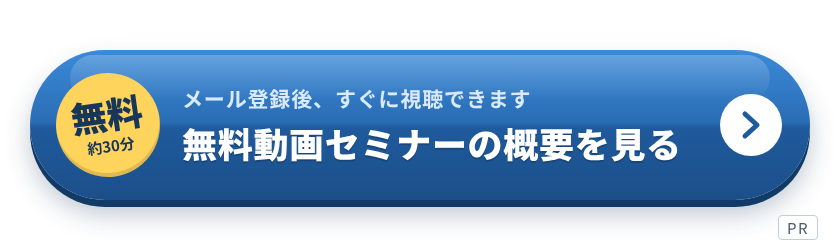
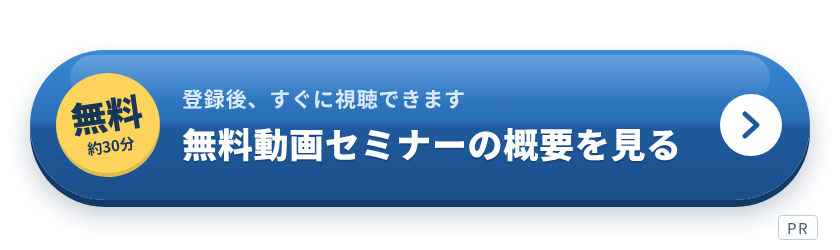
Add viewing-flow steps image (LP -> email -> official LINE -> video) and update articles
Claude-Session: https://claude.ai/code/session_012RfpWF9B5YGzRATWipR9nb

Changed region(s): [[0.2167, 0.336, 0.65, 0.448]]

diff --git a/affiliate-articles/image-src/render.js b/affiliate-articles/image-src/render.js
@@ -53,6 +53,9 @@ const ICON = {
   video: (c = C.blue) => `<svg viewBox="0 0 64 64" width="100%" height="100%"><rect x="8" y="14" width="48" height="34" rx="4" fill="none" stroke="${c}" stroke-width="4"/><path d="M27 23v16l13-8z" fill="${c}"/><path d="M22 54h20" stroke="${c}" stroke-width="4" stroke-linecap="round"/></svg>`,
   seminar: (c = C.blue) => `<svg viewBox="0 0 64 64" width="100%" height="100%"><rect x="16" y="8" width="40" height="26" rx="3" fill="none" stroke="${c}" stroke-width="4"/><circle cx="14" cy="38" r="6" fill="none" stroke="${c}" stroke-width="4"/><path d="M4 58c1-7 5-11 10-11s9 4 10 11" fill="none" stroke="${c}" stroke-width="4" stroke-linecap="round"/><path d="M22 40l10-10" stroke="${c}" stroke-width="4" stroke-linecap="round"/></svg>`,
   clock: (c = C.blue) => `<svg viewBox="0 0 64 64" width="100%" height="100%"><circle cx="32" cy="32" r="22" fill="none" stroke="${c}" stroke-width="4"/><path d="M32 18v14l9 6" fill="none" stroke="${c}" stroke-width="4" stroke-linecap="round"/></svg>`,
+  mail: (c = C.blue) => `<svg viewBox="0 0 64 64" width="100%" height="100%"><rect x="8" y="14" width="48" height="36" rx="4" fill="none" stroke="${c}" stroke-width="4"/><path d="M10 18l22 17 22-17" fill="none" stroke="${c}" stroke-width="4" stroke-linejoin="round"/></svg>`,
+  chat: (c = C.blue) => `<svg viewBox="0 0 64 64" width="100%" height="100%"><path d="M32 10C18 10 8 18.5 8 29c0 6.5 4 12.2 10 15.6V55l10-7.4c1.3.2 2.6.3 4 .3 14 0 24-8.5 24-19S46 10 32 10z" fill="none" stroke="${c}" stroke-width="4" stroke-linejoin="round"/><circle cx="22" cy="29" r="3.5" fill="${c}"/><circle cx="32" cy="29" r="3.5" fill="${c}"/><circle cx="42" cy="29" r="3.5" fill="${c}"/></svg>`,
+  tap: (c = C.blue) => `<svg viewBox="0 0 64 64" width="100%" height="100%"><rect x="6" y="12" width="40" height="18" rx="9" fill="none" stroke="${c}" stroke-width="4"/><path d="M30 26v-0c0-2.5 4-2.5 4 0v12l3-1c2-.6 4 .8 4 2.8l1 0c3 0 6 2 6 5v5c0 5-4 9-9 9h-4c-3 0-5.5-1.5-7-4l-6-9c-1.2-2 1-4.2 3-3l5 3z" fill="#fff" stroke="${c}" stroke-width="3.5" stroke-linejoin="round"/></svg>`,
   check: (c = C.blue) => `<svg viewBox="0 0 64 64" width="100%" height="100%"><circle cx="32" cy="32" r="24" fill="${c}"/><path d="M21 33l8 8 15-17" fill="none" stroke="#fff" stroke-width="6" stroke-linecap="round" stroke-linejoin="round"/></svg>`,
 };
 
@@ -269,7 +272,7 @@ images.push({
       <div style="font-size:15px;font-weight:700;margin-top:4px">約30分</div>
     </div>
     <div style="position:relative;flex:1">
-      <div style="font-size:21px;font-weight:700;color:#D9EAFB;letter-spacing:.04em">メール登録後、すぐに視聴できます</div>
+      <div style="font-size:21px;font-weight:700;color:#D9EAFB;letter-spacing:.04em">登録後、すぐに視聴できます</div>
       <div style="font-size:35px;font-weight:900;letter-spacing:.02em;margin-top:4px;white-space:nowrap;text-shadow:0 2px 0 rgba(0,0,0,.18)">無料動画セミナーの概要を見る</div>
     </div>
     <div style="position:relative;flex:none;width:62px;height:62px;border-radius:50%;background:#fff;display:flex;align-items:center;justify-content:center">
@@ -280,6 +283,32 @@ images.push({
 <div class="pr" style="right:22px;bottom:10px;font-size:15px">PR</div>`,
 });
 
+
+// 11. 登録までのステップ(実際の画面の流れに沿った説明)
+const stepCard = (n, icon, h, t) => `
+  <div style="flex:1;background:#fff;border-radius:18px;box-shadow:0 4px 16px rgba(23,54,90,.08);padding:22px 14px 20px;text-align:center;position:relative">
+    <div style="position:absolute;left:50%;top:-20px;transform:translateX(-50%);background:${C.navy};color:#fff;font-weight:900;font-size:19px;border-radius:20px;padding:4px 16px">STEP ${n}</div>
+    <div style="width:74px;height:74px;margin:10px auto 0">${ICON[icon]()}</div>
+    <div style="font-size:27px;font-weight:900;color:${C.navy};margin-top:10px;line-height:1.35">${h}</div>
+    <div style="font-size:19px;color:${C.sub};margin-top:8px;line-height:1.5">${t}</div>
+  </div>`;
+images.push({
+  file: 'steps-01.png', w: 1200, h: 520, html: `
+<div class="frame" style="background:${C.bg};padding:40px 48px">
+  <div class="title" style="font-size:40px">無料動画セミナー 視聴までの流れ</div>
+  <div style="display:flex;align-items:center;gap:10px;margin-top:44px">
+    ${stepCard(1, 'tap', 'ボタンから<br>LPへ', '記事内のボタンを<br>押して移動')}
+    ${arrowR(34)}
+    ${stepCard(2, 'mail', 'メールアドレス<br>を登録', '普段お使いの<br>ご自身のアドレスで')}
+    ${arrowR(34)}
+    ${stepCard(3, 'chat', '公式LINEに<br>登録', '登録後、LINEの<br>画面に移動します')}
+    ${arrowR(34)}
+    ${stepCard(4, 'video', 'すぐに<br>動画を視聴', '約30分の<br>動画セミナー')}
+  </div>
+  <div style="position:absolute;left:48px;bottom:20px;font-size:18px;color:${C.sub}">※登録後に、商品の案内がある場合があります。結果には個人差があります。</div>
+</div>
+<div class="pr">PR</div>`,
+});
 
 // ---------------------------------------------------------------- 書き出し
 (async () => {

diff --git a/affiliate-articles/note-01.md b/affiliate-articles/note-01.md
@@ -112,7 +112,7 @@
 
 - 「光速アフィリエイト」という名称の、約30分の無料動画セミナーです
 - 動画セミナーのほかに、無料コンサルも、提供内容として案内されています
-- メールアドレスを登録すると、登録後すぐに視聴できる、とされています
+- LPでメールアドレスを登録すると、公式LINEの登録に進み、LINE登録後すぐに動画を視聴できる流れです
 - LPでは、本業の合間のスキマ時間で行うアフィリエイト手法として、紹介されています
 - SNSやブログでの集客は、必須ではない手法として、説明されています
 
@@ -127,6 +127,7 @@
 > - **登録後に、商品の案内がある場合があります。** LPに、今後、商品の案内がある旨が記載されています。有料の案内の可能性もありますので、内容と金額を確かめ、必要かどうかを、あなた自身で判断してください。
 > - **結果には個人差があり、収益は保証されません。**
 > - **広告アフィリエイトには、一般的に、広告費がかかる場合があります。**
+> - **途中で、公式LINEへの登録があります。** LINEを使える状態で進めましょう。
 > - **メールアドレスは、普段お使いの、ご自身のもの(GmailやYahoo!メールなど)で登録しましょう。** 一時的なアドレスや、他人のアドレスは使わないでください。
 
 ## 8. おわりに
@@ -140,7 +141,9 @@
 
 この記事が、あなたが落ち着いて学び始めるための、きっかけになればうれしいです。
 
-学び方の選択肢の一つとして、セミナーの概要を見てみたい方は、次のリンクからLPを確認してみてください。
+学び方の選択肢の一つとして、セミナーの概要を見てみたい方は、次のリンクからLPを確認してみてください。視聴までの流れは、次のとおりです。
+
+【画像:steps-01.png】
 
 【画像:button-01.png】
 

diff --git a/affiliate-articles/README.md b/affiliate-articles/README.md
@@ -21,7 +21,7 @@
 | dist/ | リンク展開済みの貼り付け用ファイル(build.py で生成) |
 | dist/ameba-01.html | Amebaの「HTML表示」に貼り付けるHTML(装飾はインラインstyle) |
 | dist/ameba-01-preview.html | 上記HTMLの、画像入りプレビュー |
-| images/*.png | 記事用画像 10枚 |
+| images/*.png | 記事用画像 11枚 |
 | image-src/render.js | 画像のデザイン元(HTML/CSS/SVG → PNG)。`node image-src/render.js` で再生成 |
 
 ## 画像一覧と挿入位置
@@ -37,13 +37,14 @@
 | x-01.png(成果報酬型の広告/4者) | 1200×675 | X | 投稿1 |
 | x-02.png(広告アフィ:始める前に確認したい3つ) | 1200×675 | X | 投稿2 |
 | x-03.png(学び方は大きく3つ) | 1200×675 | X | 投稿3 |
+| steps-01.png(視聴までの流れ:LP→メール登録→公式LINE登録→視聴) | 1200×520 | Ameba・note | まとめ/おわりの、ボタン画像の直前 |
 | button-01.png(無料動画セミナーの概要を見る) | 840×250 | Ameba・note | まとめ/おわりの、リンクの直前 |
 
 すべての画像は、落ち着いた青系・Noto Sans JP で作成し、右下に小さく「PR」を入れています。セミナーの手法や収益に関する図、講師の写真、他社ロゴは使っていません。
 
 ## Amebaへの貼り付け手順(HTML)
 
-1. Amebaの画像フォルダに、Ameba用の画像(ameba-01-header / diagram-01 / diagram-02 / button-01)をアップロードします。
+1. Amebaの画像フォルダに、Ameba用の画像(ameba-01-header / diagram-01 / diagram-02 / steps-01 / button-01)をアップロードします。
 2. `dist/ameba-01.html` を開き、`<!-- ▼画像:… -->` の直後にある `src="images/…"` を、アップロードした画像のURLに差し替えます。
 3. 記事タイトルは、ファイル1行目のコメントにある文言を、Amebaのタイトル欄に入れます。
 4. エディタの「HTML表示」タブに切り替え、残りの内容をすべて貼り付けます。
